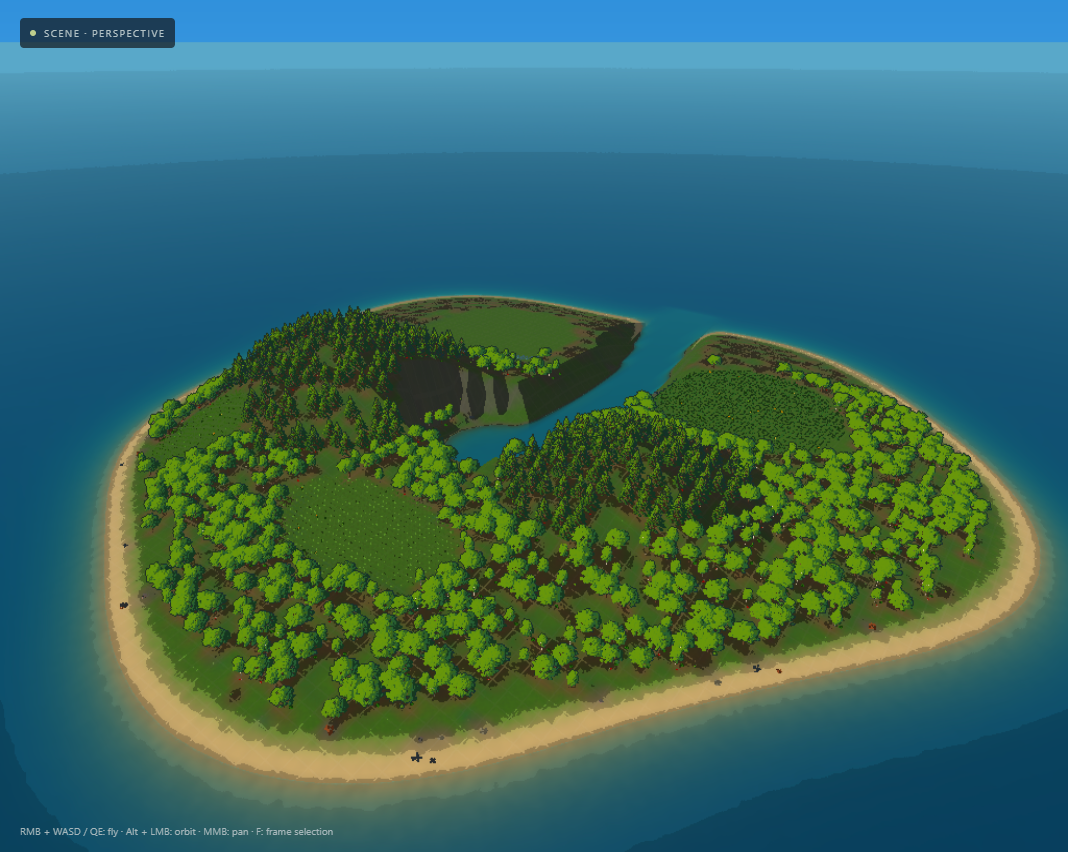
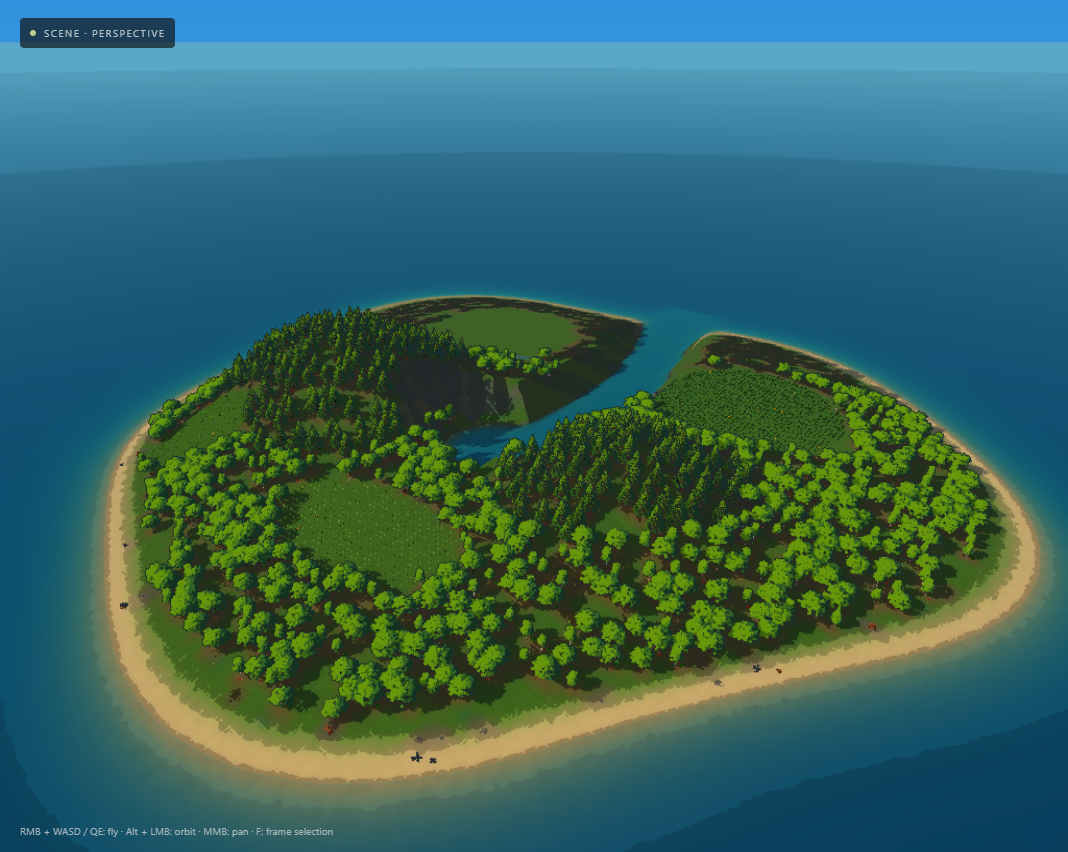
feat(render): add seeded directional cast shadows

Changed region(s): [[0.1236, 0.3662, 0.9579, 0.8545], [0.3399, 0.3357, 0.5253, 0.3967], [0.1545, 0.4577, 0.1854, 0.5188]]

diff --git a/src/map-renderer.js b/src/map-renderer.js
@@ -10,8 +10,8 @@ const CAPACITY=20000,CACHE=128,VISIBLE=4096,HIGH_CAPACITY=200000,HIGH_CACHE=16,H
 export class MapRenderer{
  static async create(canvas,onError){const self=new MapRenderer();self.fs=await FoliageSystem.create({width:64,height:64,capacity:HIGH_CAPACITY,onError});self.runtime=self.fs.runtime;const rt=self.runtime;self.canvas=canvas;self.w=canvas.width;self.h=canvas.height;
  self.geometry={pos:rt.createBuffer(TOTAL_SLOTS*CAPACITY*16),normal:rt.createBuffer(TOTAL_SLOTS*CAPACITY*16),shape:rt.createBuffer(TOTAL_SLOTS*CAPACITY*16),wood:rt.createBuffer(TOTAL_SLOTS*1152*16),objects:rt.createBuffer(32*1024*1024)};
- self.waterBuffer=rt.createBuffer(49*32);self.waterPoints=rt.createBuffer(49*128*16);self.cover=rt.createBuffer(512*512*5*4);self.coverSources=rt.createBuffer(100000*32);self.coverUpdates=0;self.styleStats=rt.createBuffer(1000001*32);self.blurA=rt.createBuffer(self.w*self.h*4);self.blurB=rt.createBuffer(self.w*self.h*4);self.styled=rt.createBuffer(self.w*self.h*4);self.buffers={waterMask:rt.createBuffer(self.w*self.h*4),base:rt.createBuffer(65*65*4),tiles:rt.createBuffer(4096*1024*4),table:rt.createBuffer(8192*16),depth:rt.createBuffer(self.w*self.h*4),pixels:rt.createBuffer(self.w*self.h*4),picks:rt.createBuffer(self.w*self.h*4)};
- for(const name of ['scene_ground','scene_splat','scene_anime','scene_style_clear','scene_style_stats','scene_style_blur','ground_cover_clear','ground_cover_stamp','scene_triangles','scene_water','scene_weather'])self[name]=await rt.kernel(await (await fetch(`./generated/${name}.json`)).json());
+ self.shadowBuffer=rt.createBuffer(1024*1024*4);self.shadowCasters=rt.createBuffer(100000*48);self.shadowUpdates=0;self.waterBuffer=rt.createBuffer(49*32);self.waterPoints=rt.createBuffer(49*128*16);self.cover=rt.createBuffer(512*512*5*4);self.coverSources=rt.createBuffer(100000*32);self.coverUpdates=0;self.styleStats=rt.createBuffer(1000001*32);self.blurA=rt.createBuffer(self.w*self.h*4);self.blurB=rt.createBuffer(self.w*self.h*4);self.styled=rt.createBuffer(self.w*self.h*4);self.buffers={waterMask:rt.createBuffer(self.w*self.h*4),base:rt.createBuffer(65*65*4),tiles:rt.createBuffer(4096*1024*4),table:rt.createBuffer(8192*16),depth:rt.createBuffer(self.w*self.h*4),pixels:rt.createBuffer(self.w*self.h*4),picks:rt.createBuffer(self.w*self.h*4)};
+ for(const name of ['scene_ground','scene_splat','scene_anime','scene_style_clear','scene_style_stats','scene_style_blur','ground_cover_clear','ground_cover_stamp','scene_triangles','scene_water','scene_weather','shadow_clear','shadow_stamp','scene_shadows'])self[name]=await rt.kernel(await (await fetch(`./generated/${name}.json`)).json());
  self.ctx=canvas.getContext('webgpu');self.ctx.configure({device:rt.device,format:'rgba8unorm',usage:GPUTextureUsage.COPY_DST|GPUTextureUsage.RENDER_ATTACHMENT,alphaMode:'opaque'});self.cache=new Map();self.highCache=new Map();self.farLod=new Set();self.drawData=new Float32Array(32*1024*1024/4);self.generations=0;self.clock=0;self.rendered=0;return self;}
  key(o){return `${o.preset}:${o.seed}`;}
  async prepare(o,protectedKeys,high=false){const key=this.key(o),cache=high?this.highCache:this.cache,limit=high?HIGH_CACHE:CACHE,count=high?HIGH_CAPACITY:CAPACITY;if(cache.has(key)){cache.get(key).time=++this.clock;return cache.get(key).slot;}let index=0;const used=new Set([...cache.values()].map(v=>v.index));while(used.has(index))index++;if(index===limit){const victim=[...cache.entries()].filter(([k])=>!protectedKeys.has(k)).sort((a,b)=>a[1].time-b[1].time)[0];if(!victim)return null;index=victim[1].index;cache.delete(victim[0]);}const slot=high?CACHE+index*10:index;
@@ -21,6 +21,27 @@ export class MapRenderer{
  updateGroundCover(map,view,sun){const cell=Math.max(.25,2**Math.ceil(Math.log2(Math.max(1,view.distance)/128)));const snap=cell*64;const ox=Math.floor(view.pivot[0]/snap)*snap-cell*256,oz=Math.floor(view.pivot[2]/snap)*snap-cell*256;const lightKey=map.environment?.enabled?[sun.lx,sun.ly,sun.lz].map(v=>Math.round(v*128)):[sun.lx,sun.ly,sun.lz];const region=[ox,oz,cell,...lightKey].join(':');
  if(this.coverObjects===map.objects&&this.coverRegion===region)return;this.coverObjects=map.objects;this.coverRegion=region;this.coverOrigin=[ox,oz,cell];const sources=[];for(const data of this.influences){const reach=data[2]+data[3]/Math.max(.18,sun.ly);if(data[0]+reach<ox||data[0]-reach>ox+cell*512||data[1]+reach<oz||data[1]-reach>oz+cell*512)continue;sources.push(...data);}const count=sources.length/8;if(count)this.runtime.write(this.coverSources,new Float32Array(sources));
  const values={count,originX:ox,originZ:oz,cell,...sun};if(!this.coverClearInv){this.coverClearInv=this.ground_cover_clear.bind({cover:this.cover},{count:512*512*5});this.coverStampInv=this.ground_cover_stamp.bind({sources:this.coverSources,cover:this.cover},values);}else this.coverStampInv.setScalars(values);const batch=this.runtime.batch();batch.dispatch(this.coverClearInv,[Math.ceil(512*512*5/128),1,1]);if(count)batch.dispatch(this.coverStampInv,[Math.ceil(count*3/128),1,1]);batch.submit();this.coverUpdates++;}
+ updateShadows(map,view,sun,wind){
+  const span=Math.max(128,Math.min(4096,Math.ceil(view.distance*3/64)*64)),cell=span/1024;
+  const kx=sun.lx/sun.ly,kz=sun.lz/sun.ly,snap=cell*16;
+  const ox=Math.floor((view.pivot[0]-view.pivot[1]*kx)/snap)*snap-span/2,oz=Math.floor((view.pivot[2]-view.pivot[1]*kz)/snap)*snap-span/2;
+  const tick=Math.floor(wind.windTime*8)/8;const key=[ox,oz,cell,sun.lx,sun.ly,sun.lz,tick,wind.windSpeed,wind.windDirection].join(':');
+  this.shadowRegion={originX:ox,originZ:oz,cell};
+  if(this.shadowKey===key&&this.shadowPlacements===this.placements)return;
+  this.shadowKey=key;this.shadowPlacements=this.placements;
+  const casterKey=[ox,oz,cell,sun.lx,sun.ly,sun.lz].join(':');
+  if(this.shadowCasterKey!==casterKey||this.shadowCasterPlacements!==this.placements){
+  this.shadowCasterKey=casterKey;this.shadowCasterPlacements=this.placements;const data=[];
+  for(const {o,height} of this.placements){if(!o.visible||!((o.preset<21&&o.preset!==10)||(o.preset>=91&&o.preset<=100)))continue;
+   const px=o.x-height*kx,pz=o.z-height*kz,reach=10*o.scale*(1+Math.hypot(kx,kz));
+   if(px+reach<ox||px-reach>ox+span||pz+reach<oz||pz-reach>oz+span)continue;
+   data.push(o.x,height,o.z,o.scale,o.rotation*Math.PI/180,o.preset,o.seed&65535,o.seed>>>16,o.id,0,0,0);
+  }
+  this.shadowCasterCount=data.length/12;if(data.length)this.runtime.write(this.shadowCasters,new Float32Array(data));}
+  const values={count:this.shadowCasterCount,...this.shadowRegion,...sun,...wind,windTime:tick};
+  if(!this.shadowClearInv){this.shadowClearInv=this.shadow_clear.bind({shadow:this.shadowBuffer},{});this.shadowStampInv=this.shadow_stamp.bind({shadow:this.shadowBuffer,casters:this.shadowCasters},values);}else this.shadowStampInv.setScalars(values);
+  const batch=this.runtime.batch();batch.dispatch(this.shadowClearInv,[8192,1,1]);if(this.shadowCasterCount){const groups=Math.ceil(this.shadowCasterCount*144/128);batch.dispatch(this.shadowStampInv,[Math.min(groups,65535),Math.ceil(groups/65535),1]);}batch.submit();this.shadowUpdates++;
+ }
  // Static placement data is invalidated by object or terrain edits, never camera motion.
  preparePlacements(map){if(this.placementObjects===map.objects&&this.placementTerrain===map.terrain&&this.placementTiles===map.terrainTiles)return;this.placementObjects=map.objects;this.placementTerrain=map.terrain;this.placementTiles=map.terrainTiles;this.placements=map.objects.map(o=>({o,height:terrainHeight(map,o.x,o.z)}));this.influences=map.objects.filter(o=>o.visible).map(o=>groundInfluence(o)).filter(Boolean);this.placementBuilds=(this.placementBuilds??0)+1;}
  async render(map,selection,view){if(this.planSource!==map.objects||this.planDefinitions!==map.plans){this.planSource=map.objects;this.planDefinitions=map.plans;this.combinedObjects=[...map.objects,...planObjects(map.plans,map.objects)];}map={...map,objects:this.combinedObjects};const profileStart=performance.now(),generationStart=this.generations,coverStart=this.coverUpdates;this.profile={cameraTravel:this.previousPosition?Math.hypot(...view.position.map((v,i)=>v-this.previousPosition[i])):0};this.previousPosition=[...view.position];this.preparePlacements(map);this.uploadTerrain(map);const b=basis(view),tangent=Math.tan(view.fov*Math.PI/360),candidates=[];
@@ -42,7 +63,9 @@ export class MapRenderer{
  for(let pass=0;pass<2;pass++){const scalars={...camera,...wind,capacity:CAPACITY,objectCount:VISIBLE,taskCount,referenceRaster:view.serialTriangles?1:0,pass};if(!this.splatInv)this.splatInv=this.scene_splat.bind({...this.geometry,depth:this.buffers.depth,pixels:this.buffers.pixels,picks:this.buffers.picks},scalars);else this.splatInv.setScalars(scalars);if(taskCount)batch.dispatch(this.splatInv,[Math.min(taskCount,65535),Math.ceil(taskCount/65535),1]);
  if(triangleTasks){const values={...camera,...wind,capacity:CAPACITY,objectCount:VISIBLE,taskCount:triangleTasks,taskOffset:triangleOffset,referenceRaster:view.serialTriangles?1:0,pass};if(!this.triangleInv)this.triangleInv=this.scene_triangles.bind({normal:this.geometry.normal,wood:this.geometry.wood,objects:this.geometry.objects,depth:this.buffers.depth,pixels:this.buffers.pixels,picks:this.buffers.picks},values);else this.triangleInv.setScalars(values);batch.dispatch(this.triangleInv,[Math.min(triangleTasks,65535),Math.ceil(triangleTasks/65535),1]);}}batch.submit();if(view.profile){await this.runtime.idle();this.profile.geometry=performance.now()-profileStart-this.profile.prepare-this.profile.ground;}
  let passStart=performance.now();if(waterCount){const values={w:this.w,h:this.h,waterCount,cx:view.position[0],cy:view.position[1],cz:view.position[2],yaw:view.yaw,pitch:view.pitch,aspect:view.aspect,tangent,extent:map.extent,time:view.waterTime??0,...water.weather,...(atmosphere?{rain:atmosphere.rain,windSpeed:atmosphere.wind}:{}),...sun};if(!this.waterInv)this.waterInv=this.scene_water.bind({...this.buffers,waters:this.waterBuffer,waterPoints:this.waterPoints},values);else this.waterInv.setScalars(values);const wb=this.runtime.batch();wb.dispatch(this.waterInv,[Math.ceil(this.w*this.h/128),1,1]);wb.submit();}
- if(view.profile){await this.runtime.idle();this.profile.water=performance.now()-passStart;}passStart=performance.now();if(atmosphere){const values={w:this.w,h:this.h,waterCount,cx:view.position[0],cy:view.position[1],cz:view.position[2],yaw:view.yaw,pitch:view.pitch,aspect:view.aspect,tangent,time:view.environmentTime??0,day:atmosphere.day,clouds:atmosphere.clouds,rain:atmosphere.rain,windSpeed:atmosphere.wind,windDirection:water.weather.windDirection,wetness:map.environment.wetness,toon:view.anime===false?0:styleMode+1,paint:view.paint??.8,...sun};if(!this.weatherInv)this.weatherInv=this.scene_weather.bind({waterMask:this.buffers.waterMask,depth:this.buffers.depth,pixels:this.buffers.pixels,picks:this.buffers.picks,waters:this.waterBuffer,waterPoints:this.waterPoints},values);else this.weatherInv.setScalars(values);const weatherBatch=this.runtime.batch();weatherBatch.dispatch(this.weatherInv,[Math.ceil(this.w*this.h/128),1,1]);weatherBatch.submit();}
+ if(view.profile){await this.runtime.idle();this.profile.water=performance.now()-passStart;}passStart=performance.now();
+ if(view.shadows!==false&&(view.shadowStrength??.65)>0&&sun.ly>.06){this.updateShadows(map,view,sun,wind);const values={w:this.w,h:this.h,cx:view.position[0],cy:view.position[1],cz:view.position[2],yaw:view.yaw,pitch:view.pitch,aspect:view.aspect,tangent,...this.shadowRegion,...sun,strength:(view.shadowStrength??.65)*Math.min(1,(sun.ly-.06)/.14)*(atmosphere?1-atmosphere.clouds*.75:1)};if(!this.shadowInv)this.shadowInv=this.scene_shadows.bind({shadow:this.shadowBuffer,depth:this.buffers.depth,picks:this.buffers.picks,pixels:this.buffers.pixels},values);else this.shadowInv.setScalars(values);const sb=this.runtime.batch();sb.dispatch(this.shadowInv,[Math.ceil(this.w*this.h/128),1,1]);sb.submit();}
+ if(view.profile){await this.runtime.idle();this.profile.shadows=performance.now()-passStart;}passStart=performance.now();if(atmosphere){const values={w:this.w,h:this.h,waterCount,cx:view.position[0],cy:view.position[1],cz:view.position[2],yaw:view.yaw,pitch:view.pitch,aspect:view.aspect,tangent,time:view.environmentTime??0,day:atmosphere.day,clouds:atmosphere.clouds,rain:atmosphere.rain,windSpeed:atmosphere.wind,windDirection:water.weather.windDirection,wetness:map.environment.wetness,toon:view.anime===false?0:styleMode+1,paint:view.paint??.8,...sun};if(!this.weatherInv)this.weatherInv=this.scene_weather.bind({waterMask:this.buffers.waterMask,depth:this.buffers.depth,pixels:this.buffers.pixels,picks:this.buffers.picks,waters:this.waterBuffer,waterPoints:this.waterPoints},values);else this.weatherInv.setScalars(values);const weatherBatch=this.runtime.batch();weatherBatch.dispatch(this.weatherInv,[Math.ceil(this.w*this.h/128),1,1]);weatherBatch.submit();}
  if(view.profile){await this.runtime.idle();this.profile.weather=performance.now()-passStart;}passStart=performance.now();this.output=this.buffers.pixels;if(view.anime!==false){const count=visible.reduce((m,i)=>Math.max(m,i.o.id+1),1),base={w:this.w,h:this.h},softness=styleMode===1?0:(view.softness??1)*(styleMode===2?1.35:1);const buffers={picks:this.buffers.picks,depth:this.buffers.depth,stats:this.styleStats};
  if(!this.styleClearInv){this.styleClearInv=this.scene_style_clear.bind({stats:this.styleStats},{count});this.styleStatsInv=this.scene_style_stats.bind({pixels:this.buffers.pixels,picks:this.buffers.picks,stats:this.styleStats},base);this.blurX=this.scene_style_blur.bind({...buffers,guide:this.buffers.pixels,source:this.buffers.pixels,target:this.blurA},{...base,axis:0,softness});this.blurY=this.scene_style_blur.bind({...buffers,guide:this.buffers.pixels,source:this.blurA,target:this.blurB},{...base,axis:1,softness});this.animeInv=this.scene_anime.bind({...buffers,waterMask:this.buffers.waterMask,pixels:this.blurB,styled:this.styled},{...base,outline:view.outline??.55,softness,paint:view.paint??.8,atmosphere:atmosphere?1:0,styleMode});}
  this.styleClearInv.setScalars({count});this.blurX.setScalars({softness});this.blurY.setScalars({softness});this.animeInv.setScalars({outline:view.outline??.55,softness,paint:view.paint??.8,atmosphere:atmosphere?1:0,styleMode});const finish=this.runtime.batch(),groups=[Math.ceil(this.w*this.h/128),1,1];finish.dispatch(this.styleClearInv,[Math.ceil(count*8/128),1,1]);finish.dispatch(this.styleStatsInv,groups);finish.dispatch(this.blurX,groups);finish.dispatch(this.blurY,groups);finish.dispatch(this.animeInv,groups);finish.submit();this.output=this.styled;}

diff --git a/src/editor.js b/src/editor.js
@@ -104,6 +104,8 @@ $('radiusNumber').onchange=()=>{$('radius').value=Math.max(.5,Math.min(256,Numbe
 const animeDescriptions={painted:'Soft painted colour clusters with warm light and cool shadows.',cel:'Clean light bands, saturated colour and strong silhouette ink.',watercolour:'Pale colour washes, paper pigment and broken ink contours.'};
 function refreshAnimeControls(){const off=view.anime===false,cel=$('animeMode').value==='cel';$('animeMode').disabled=off;$('colourSoftness').disabled=off||cel;$('paintTexture').disabled=off||cel;$('outlineStrength').disabled=off;}
 $('animeMode').onchange=()=>{view.animeMode=$('animeMode').value;refreshAnimeControls();$('animeModeDescription').textContent=animeDescriptions[view.animeMode];request();};
+$('castShadows').onchange=()=>{view.shadows=$('castShadows').checked;$('shadowStrength').disabled=!view.shadows;request();};
+$('shadowStrength').oninput=()=>{view.shadowStrength=Number($('shadowStrength').value);request();};
 $('animeStyle').onchange=()=>{view.anime=$('animeStyle').checked;refreshAnimeControls();request();};
 $('outlineStrength').oninput=()=>{view.outline=Number($('outlineStrength').value);request();};
 

diff --git a/docs/shadows.md b/docs/shadows.md
@@ -1,0 +1,25 @@
+# Cast shadows
+
+The editor enables **Cast shadows** by default, below Anime shading. **Shadow strength** controls their contrast; switching shadows off skips the shadow work. These are viewport settings, like the anime style, and are not saved in map JSON.
+
+Trees, bushes and rock/crystal formations cast directional shadows onto terrain, water and other visible objects. The light follows the manual sun controls or the environment clock. Cloud cover reduces shadow contrast; shadows fade near the horizon and turn off below it. Moon shadows are not implemented.
+
+## Rendering and performance
+
+`src/shadows.cu` builds a 1024 by 1024 directional height map using the same species and 32-bit seeds as the vegetation. Trees and bushes use 128 canopy ellipsoids, trees add 16 approximate trunk segments, and mineral formations use their 16 seeded bodies. The caster list includes off-screen objects. No leaf geometry is regenerated for shadows.
+
+The map uses 4 MiB of GPU storage. A separate reusable caster buffer reserves 4.8 MB for the maximum 100,000 placements. The receiver pass reconstructs world positions from scene depth and uses four filtered shadow comparisons per visible pixel. It preserves picking and depth, runs after water and before weather/anime finishing, and leaves the sky unchanged.
+
+Stationary scenes reuse the shadow map. Object and terrain changes, sun changes and moving outside the snapped shadow region invalidate it. Wind deformation is sampled at 8 Hz; sun changes update immediately. Caster data is reused between wind updates. The shadow region follows the camera pivot and expands with viewing distance, from 128 to 4,096 metres, fading at its boundaries.
+
+## Current limits
+
+These are efficient shape approximations, not exact leaf/branch triangle shadows. Small branches, grass, flowers, ferns, vines, moss, crops, mushrooms, litter and deadwood are not shadow casters. Terrain receives object shadows but does not yet cast shadows from hills. Shadow texels become coarser in wide views. Wind shadows update less often than visible foliage. Filtered edges soften aliasing but do not simulate area-light penumbrae. Existing broad ground-cover shading remains an additional artistic term.
+
+## Validation
+
+Run `npm run build`, then with the local server running on port 5197 run `node scripts/test-shadows.mjs`.
+
+The GPU test checks cast shadows on ground, an off-screen tree casting while no scene objects are rendered, reversed sun direction, hidden-caster removal, terrain-edit invalidation, cache reuse, unchanged depth/picking/sky and all three anime finishes on the island. Screenshots and measured timings are written under `artifacts/shadows-*`.
+
+A local headless Edge run at 1024 by 768 with 1,405 island casters measured approximately 2.2 to 3.3 ms for the shadow section in its final 12-frame sample. These are synchronized wall-clock measurements including submission and CPU work, not isolated GPU timestamps or a guarantee for other hardware, 1080p, or worst-case maps. An earlier sample had a 12 ms outlier; broader flight/storm performance still needs monitoring.

diff --git a/docs/anime-styles.md b/docs/anime-styles.md
@@ -27,3 +27,7 @@ The CUDA finish processes the selected style for terrain, vegetation, props, wat
 Paper texture and brush placement are screen-space, so camera movement can change their placement. Outlines use depth and object boundaries, rather than drawn anatomical lines. The watercolour look is an appearance treatment, not fluid pigment simulation. Existing depth-dependent water transparency remains unchanged.
 
 Build: `npm run build`. Browser validation: start the local server, then `node scripts/test-anime-styles.mjs`. The test checks distinct renders, the real dropdown and bypass control, geometry reuse, unchanged map data, and fixed-time day/night lighting across all three modes. Comparisons are in `artifacts/anime-painted.png`, `anime-cel.png` and `anime-watercolour.png`.
+
+## Cast shadows
+
+All three styles process the cast-shadow result. See [Cast shadows](shadows.md) for controls, implementation, validation and current limits.
